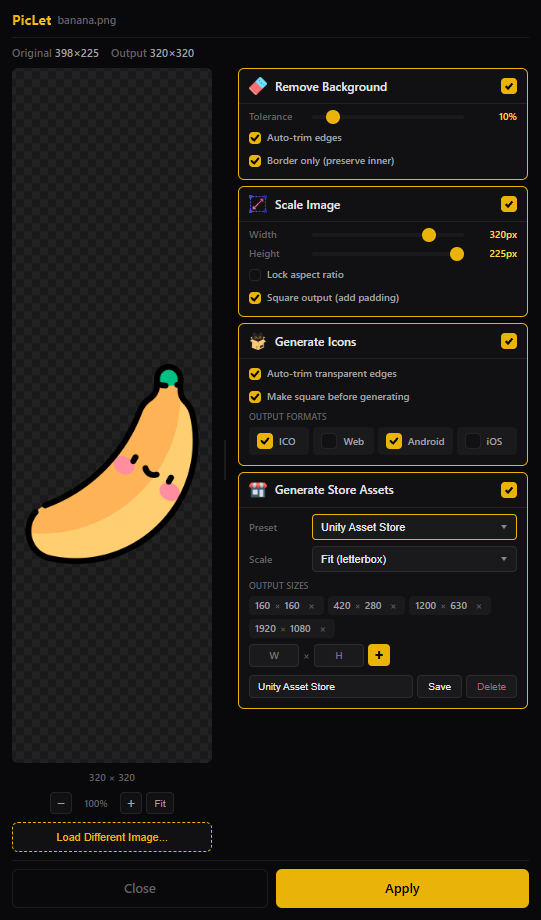
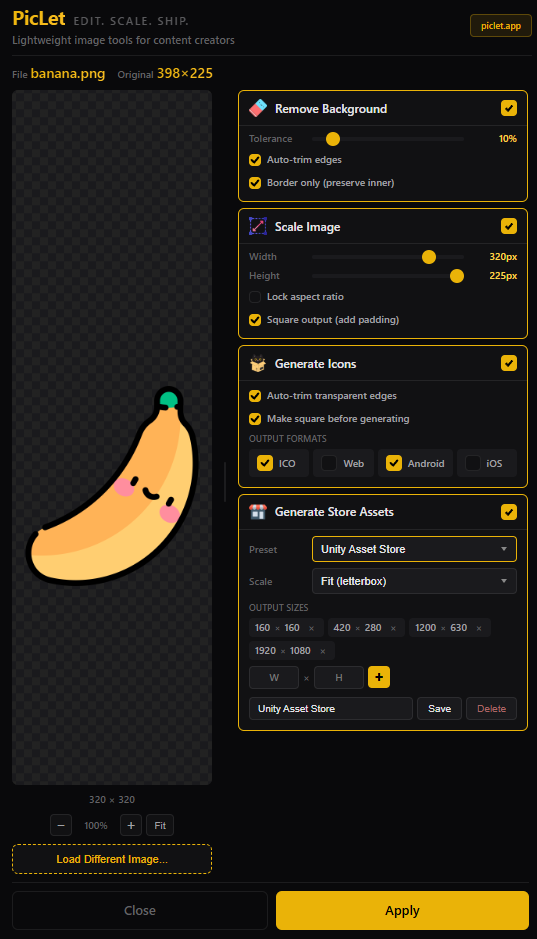
Enhance Readme with donation link, update loading screen styles, and improve piclet.html layout. Add API endpoint for opening URLs in the default browser and refactor related JavaScript functions. Update theme CSS for better consistency.

diff --git a/src/gui/piclet.html b/src/gui/piclet.html
@@ -1,5 +1,5 @@
 <!DOCTYPE html>
-<html data-piclet data-width="540" data-height="960">
+<html data-piclet data-width="560" data-height="960">
 <head>
   <meta charset="UTF-8">
   <meta name="viewport" content="width=device-width,initial-scale=1">
@@ -8,7 +8,7 @@
   <script src="/js/piclet.js"></script>
   <style>
     .app{display:flex;flex-direction:column;height:100%}
-    .main{display:flex;flex:1;gap:12px;overflow:hidden}
+    .main{display:flex;flex:1;gap:12px;overflow:hidden;margin-top:10px}
 
     /* Left panel - Preview */
     .preview-panel{flex:1;min-width:200px;display:flex;flex-direction:column;gap:8px}
@@ -34,10 +34,10 @@
     .divider:hover::after,.divider.dragging::after{background:var(--acc)}
 
     /* Right panel - Tools */
-    .tools-panel{width:300px;flex-shrink:0;display:flex;flex-direction:column;gap:6px;overflow-y:auto;padding-right:4px;align-self:flex-start;max-height:100%}
+    .tools-panel{width:300px;min-width:240px;flex-shrink:0;display:flex;flex-direction:column;gap:6px;overflow-y:auto;overflow-x:hidden;padding-right:4px;align-self:flex-start;max-height:100%;box-sizing:border-box}
 
     /* Tool sections */
-    .tool{background:var(--bg2);border-radius:6px;border:1px solid var(--brd);overflow:hidden}
+    .tool{background:var(--bg2);border-radius:6px;border:1px solid var(--brd);overflow:hidden;min-width:0}
     .tool.disabled{opacity:0.35;pointer-events:none}
     .tool.active{border-color:var(--acc)}
     .tool-header{display:flex;align-items:center;gap:8px;padding:8px 10px;cursor:pointer;user-select:none}
@@ -51,7 +51,7 @@
     .tool-header .toggle svg{width:10px;height:10px;fill:none;stroke:var(--acc);stroke-width:2.5;opacity:0}
     .tool.active .tool-header .toggle{border-color:var(--acc);background:var(--acc)}
     .tool.active .tool-header .toggle svg{opacity:1;stroke:#000}
-    .tool-body{display:none;padding:6px 10px 10px;border-top:1px solid var(--brd)}
+    .tool-body{display:none;padding:6px 10px 10px;border-top:1px solid var(--brd);min-width:0;overflow:hidden}
     .tool.active .tool-body{display:block}
     #t-removebg .tool-body{min-height:70px}
     #t-scale .tool-body{min-height:95px}
@@ -102,20 +102,21 @@
     .apply-btn:disabled{opacity:0.5;cursor:not-allowed}
 
     /* Header branding */
-    .hd{flex-direction:column;align-items:stretch;gap:0;padding:0 0 8px 0;border-bottom:none;background:linear-gradient(135deg,rgba(234,179,8,0.08) 0%,rgba(251,191,36,0.03) 50%,transparent 100%);margin:-12px -12px 0 -12px;padding:12px 12px 10px 12px;border-radius:0;position:relative;overflow:hidden}
-    .hd::before{content:'';position:absolute;top:0;left:0;right:0;height:3px;background:linear-gradient(90deg,#eab308 0%,#fbbf24 25%,#f59e0b 50%,#fbbf24 75%,#eab308 100%);background-size:200% 100%;animation:shimmer 3s ease-in-out infinite}
-    @keyframes shimmer{0%,100%{background-position:0% 0}50%{background-position:100% 0}}
-    .hd::after{content:'';position:absolute;bottom:0;left:0;right:0;height:1px;background:linear-gradient(90deg,transparent,var(--brd),transparent)}
+    .hd{flex-direction:column;align-items:stretch;gap:0;padding-bottom:8px;border-bottom:1px solid var(--brd);position:relative}
     .hd-top{display:flex;align-items:center;gap:10px;width:100%}
     .hd-brand{display:flex;flex-direction:column;gap:2px}
     .hd-title{display:flex;align-items:baseline;gap:8px}
-    .hd-title b{font-size:20px;background:linear-gradient(135deg,#eab308 0%,#fcd34d 50%,#f59e0b 100%);-webkit-background-clip:text;-webkit-text-fill-color:transparent;letter-spacing:-0.5px;font-weight:700}
+    .hd-title b{font-size:20px;color:#eab308;letter-spacing:-0.5px;font-weight:700}
     .hd-subtitle{font-size:9px;color:var(--acc);font-weight:600;text-transform:uppercase;letter-spacing:1.5px;opacity:0.9}
     .hd-desc{font-size:10px;color:var(--txt3);margin-top:1px}
-    .hd-link{margin-left:auto;font-size:9px;color:var(--acc);text-decoration:none;padding:5px 10px;background:rgba(234,179,8,0.1);border:1px solid rgba(234,179,8,0.3);border-radius:4px;transition:all .2s;font-weight:500}
+    .hd-links{margin-left:auto;display:flex;gap:6px;align-items:center}
+    .hd-link{font-size:9px;color:var(--acc);text-decoration:none;padding:5px 10px;background:rgba(234,179,8,0.1);border:1px solid rgba(234,179,8,0.3);border-radius:4px;transition:all .2s;font-weight:500}
     .hd-link:hover{color:#000;border-color:var(--acc);background:var(--acc)}
-    .hd-file{font-size:10px;color:var(--txt2);margin-top:8px;padding-top:8px;border-top:1px solid var(--brd);width:100%}
-    .hd-file span:first-child{color:var(--txt3);margin-right:4px}
+    .hd-coffee{display:flex;align-items:center;gap:4px;font-size:9px;color:#ffdd00;text-decoration:none;padding:5px 8px;background:rgba(255,221,0,0.1);border:1px solid rgba(255,221,0,0.25);border-radius:4px;transition:all .2s;font-weight:500}
+    .hd-coffee:hover{color:#000;border-color:#ffdd00;background:#ffdd00}
+    .hd-coffee svg{width:12px;height:12px;fill:currentColor}
+    .hd-meta{display:flex;align-items:center;gap:12px;font-size:10px;color:var(--txt3);margin-top:8px;padding-top:8px;border-top:1px solid var(--brd);width:100%}
+    .hd-meta b{color:var(--txt2);font-weight:500;margin-left:3px}
 
     /* States */
     .main.hide{display:none}
@@ -146,13 +147,18 @@
         </div>
         <span class="hd-desc">Lightweight image tools for content creators</span>
       </div>
-      <a href="https://piclet.app" class="hd-link" onclick="PicLet.shell('https://piclet.app');return false">piclet.app</a>
+      <div class="hd-links">
+        <a href="https://buymeacoffee.com/spark88" class="hd-coffee" onclick="PicLet.openUrl('https://buymeacoffee.com/spark88');return false">
+          <svg viewBox="0 0 24 24"><path d="M20.216 6.415l-.132-.666c-.119-.598-.388-1.163-1.001-1.379-.197-.069-.42-.098-.57-.241-.152-.143-.196-.366-.231-.572-.065-.378-.125-.756-.192-1.133-.057-.325-.102-.69-.25-.987-.195-.4-.597-.634-.996-.788a5.723 5.723 0 00-.626-.194c-1-.263-2.05-.36-3.077-.416a25.834 25.834 0 00-3.7.062c-.915.083-1.88.184-2.75.5-.318.116-.646.256-.888.501-.297.302-.393.77-.177 1.146.154.267.415.456.692.58.36.162.737.284 1.123.366 1.075.238 2.189.331 3.287.37 1.218.05 2.437.01 3.65-.118.299-.033.598-.073.896-.119.352-.054.578-.513.474-.834-.124-.383-.457-.531-.834-.473-.466.074-.96.108-1.382.146-1.177.08-2.358.082-3.536.006a22.228 22.228 0 01-1.157-.107c-.086-.01-.18-.025-.258-.036-.243-.036-.484-.08-.724-.13-.111-.027-.111-.185 0-.212h.005c.277-.06.557-.108.838-.147h.002c.131-.009.263-.032.394-.048a25.076 25.076 0 013.426-.12c.674.019 1.347.067 2.017.144l.228.031c.267.04.533.088.798.145.392.085.895.113 1.07.542.055.137.08.288.111.431l.319 1.484a.237.237 0 01-.199.284h-.003c-.037.006-.075.01-.112.015a36.704 36.704 0 01-4.743.295 37.059 37.059 0 01-4.699-.304c-.14-.017-.293-.042-.417-.06-.326-.048-.649-.108-.973-.161-.393-.065-.768-.032-1.123.161-.29.16-.527.404-.675.701-.154.316-.199.66-.267 1-.069.34-.176.707-.135 1.056.087.753.613 1.365 1.37 1.502a39.69 39.69 0 0011.343.376.483.483 0 01.535.53l-.071.697-1.018 9.907c-.041.41-.047.832-.125 1.237-.122.637-.553 1.028-1.182 1.171-.577.131-1.165.2-1.756.205-.656.004-1.31-.025-1.966-.022-.699.004-1.556-.06-2.095-.58-.475-.458-.54-1.174-.605-1.793l-.731-7.013-.322-3.094c-.037-.351-.286-.695-.678-.678-.336.015-.718.3-.678.679l.228 2.185.949 9.112c.147 1.344 1.174 2.068 2.446 2.272.742.12 1.503.144 2.257.156.966.016 1.942.053 2.892-.122 1.408-.258 2.465-1.198 2.616-2.657.34-3.332.683-6.663 1.024-9.995l.215-2.087a.484.484 0 01.39-.426c.402-.078.787-.212 1.074-.518.455-.488.546-1.124.385-1.766zm-1.478.772c-.145.137-.363.201-.578.233-2.416.359-4.866.54-7.308.46-1.748-.06-3.477-.254-5.207-.498-.17-.024-.353-.055-.47-.18-.22-.236-.111-.71-.054-.995.052-.26.152-.609.463-.646.484-.057 1.046.148 1.526.22.577.088 1.156.159 1.737.212 2.48.226 5.002.19 7.472-.14.45-.06.899-.13 1.345-.21.399-.072.84-.206 1.08.206.166.281.188.657.162.974a.544.544 0 01-.169.364z"/></svg>
+          Donate
+        </a>
+        <a href="https://piclet.app" class="hd-link" onclick="PicLet.openUrl('https://piclet.app');return false">piclet.app</a>
+      </div>
     </div>
-    <div class="hd-file"><span>File:</span> <span id="fileName">-</span></div>
-  </div>
-  <div class="meta">
-    <div>Original<b id="origSize">-</b></div>
-    <div>Output<b id="outSize">-</b></div>
+    <div class="hd-meta">
+      <div>File<b id="fileName">-</b></div>
+      <div>Original<b id="origSize">-</b></div>
+    </div>
   </div>
 
   <!-- Main content -->
@@ -581,7 +587,6 @@ async function showOriginal() {
 async function generatePreview() {
   if (activeTools.size === 0) {
     showOriginal();
-    $('outSize').textContent = '-';
     return;
   }
 
@@ -591,7 +596,6 @@ async function generatePreview() {
 
   if (!hasPreviewable) {
     showOriginal();
-    $('outSize').textContent = '(multiple files)';
     return;
   }
 
@@ -607,7 +611,6 @@ async function generatePreview() {
       pA.appendChild(img);
       if (result.width && result.height) {
         pI.textContent = `${result.width} × ${result.height}`;
-        $('outSize').textContent = `${result.width}×${result.height}`;
       }
       updateZoom(); // Apply current zoom
     } else {

diff --git a/src/gui/js/piclet.js b/src/gui/js/piclet.js
@@ -41,6 +41,15 @@
     fetch('/api/close', { method: 'POST' }).finally(() => window.close());
   }
 
+  // Open URL in default browser
+  function openUrl(url) {
+    fetch('/api/open-url', {
+      method: 'POST',
+      headers: { 'Content-Type': 'application/json' },
+      body: JSON.stringify({ url })
+    });
+  }
+
   // Initialize window
   function init(opts = {}) {
     const w = opts.width || 320;
@@ -60,7 +69,7 @@
   }
 
   // Export to global
-  window.PicLet = { $, log, fetchJson, postJson, close, init };
+  window.PicLet = { $, log, fetchJson, postJson, close, openUrl, init };
 
   // Auto-init on DOMContentLoaded if data attributes present
   document.addEventListener('DOMContentLoaded', () => {

diff --git a/src/lib/gui-server.ts b/src/lib/gui-server.ts
@@ -216,6 +216,22 @@ export function startGuiServer(options: GuiServerOptions): Promise<boolean> {
 			}
 		});
 
+		// API: Open URL in default browser
+		app.post('/api/open-url', (req, res) => {
+			const { url } = req.body;
+			if (!url || typeof url !== 'string') {
+				res.json({ success: false, error: 'Missing URL' });
+				return;
+			}
+			// Use PowerShell Start-Process which opens in default browser
+			spawn('powershell.exe', ['-WindowStyle', 'Hidden', '-Command', `Start-Process '${url}'`], {
+				detached: true,
+				stdio: 'ignore',
+				windowsHide: true,
+			}).unref();
+			res.json({ success: true });
+		});
+
 		function shutdown() {
 			setTimeout(() => {
 				server?.close();

diff --git a/src/gui/css/theme.css b/src/gui/css/theme.css
@@ -17,7 +17,7 @@ body{font:500 13px/1.3 -apple-system,system-ui,sans-serif;color:var(--txt);paddi
 .hd b{font-size:14px;background:linear-gradient(135deg,#eab308,#fbbf24);-webkit-background-clip:text;-webkit-text-fill-color:transparent}
 .hd span{font-size:11px;color:var(--txt3)}
 
-/* Meta info */
+/* Meta info (legacy - kept for other pages) */
 .meta{display:flex;gap:12px;font-size:11px;color:var(--txt3);padding:8px 0;flex-shrink:0}
 .meta b{color:var(--txt2);font-weight:500;margin-left:3px}
 

diff --git a/Readme.md b/Readme.md
@@ -170,8 +170,9 @@ When you run `piclet iconpack`, it generates:
 ## Support & Contributions
 
 ⭐ Star the repo and I power up like Mario!<br>
-☕ Devs run on [coffee][coffee-link].<br>
 🤝 [Contributions][fork-link] are welcome.
+
+<a href="https://buymeacoffee.com/spark88" target="_blank"><img src="https://cdn.buymeacoffee.com/buttons/v2/default-yellow.png" alt="Buy Me A Coffee" width="180"></a>
 
 ---
 
